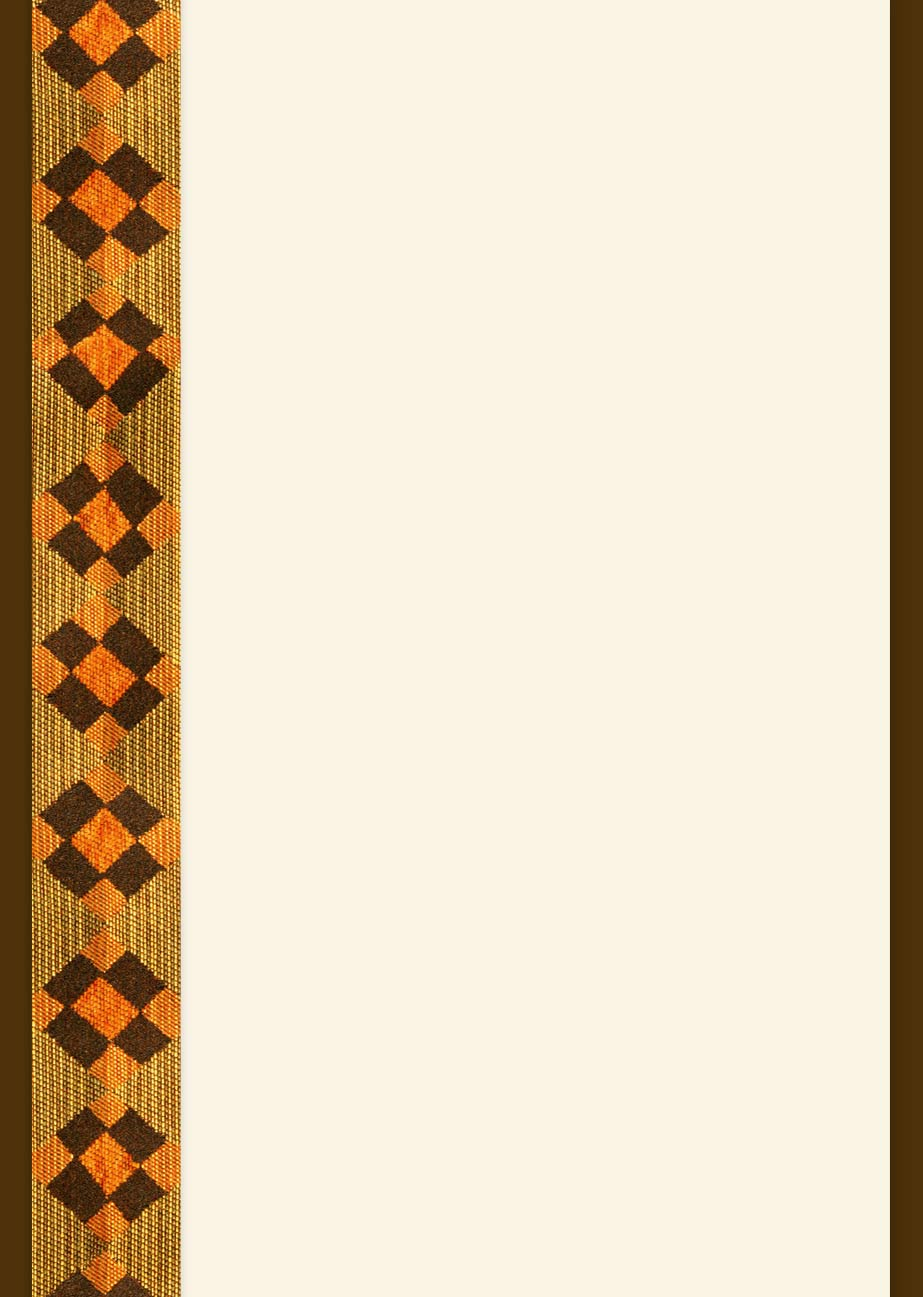
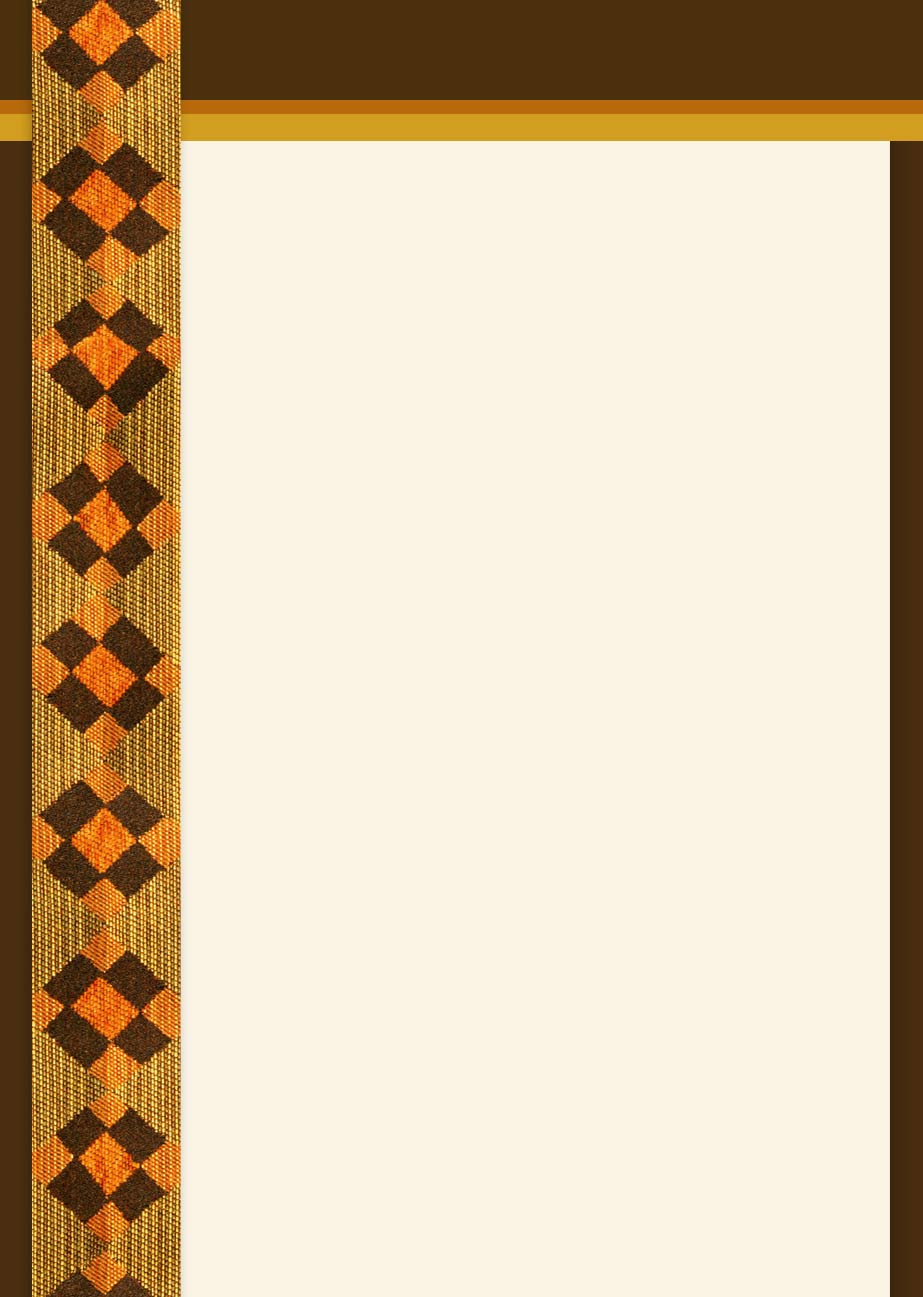
IE Fixes

Changed region(s): [[0.182, 0.0, 1.0, 0.1234], [0.0, 0.0617, 0.0303, 0.1234]]

diff --git a/sites/all/themes/scholar_base/scholar-base-ie.css b/sites/all/themes/scholar_base/scholar-base-ie.css
@@ -1,0 +1,82 @@
+/* $Id: ie.css,v 1.4 2008/09/20 20:57:27 johnalbin Exp $ */
+
+/*
+ * IE CSS
+ *
+ * CSS targeted specifically for Internet Explorer for Windows.
+ *
+ * Properties starting with an underscore _ are for IE 5 and 6 only.
+ * Properties starting with head:first-child+body are for IE7 only.
+ * Properties with a child selector (>) or sibling selector (+) are for IE7 only.
+ *
+ */
+
+/*
+ * Layout CSS
+ */
+
+
+/** floating divs **/
+.item-list ul.context-links li,
+.empty-content p,
+.empty-content .item-list ul.context-links li,
+.ahah-progress .throbber,
+.column {
+  display: inline;
+  }
+
+body.two-sidebars #sidebar-left {
+	left: 220px; /* Total width, including padding of right col */
+	}
+
+body.sidebar-left #sidebar-left {
+	left: 0;
+	}
+
+body.header-left-main-right #header-left {
+  left: -200px;
+  }
+
+body.header-left-main #header-left {
+	left: 200px;
+	}
+
+ul.menu li.leaf {
+  list-style-image: none;
+  }
+
+#vsite-widgets-search-form input#edit-search {
+  width: 90%;
+  }
+
+#vsite-widgets-search-form input#edit-submit {
+  font-size: 0px;
+  display:block;
+  line-height: 0px;
+  }
+
+ul.primary, ul.secondary {
+  _width: auto; /* Reset to auto width for IE6 */
+  }
+
+ul.primary li, ul.secondary li {
+  _width: 100px; /* Reset to auto width for IE6 */
+  }
+
+ul.primary li a, ul.primary li a:visted {
+  _background: #DDDDDD;
+  }
+
+ul.primary li.active a {
+  _background: #ffffff;
+  }
+
+
+#scholar-shield img {
+  behavior: expression((this.runtimeStyle.behavior="none")&&(this.pngSet?this.pngSet=true:(this.nodeName == "IMG" && this.src.toLowerCase().indexOf('.png')>-1?(this.runtimeStyle.backgroundImage = "none",
+  this.runtimeStyle.filter = "progid:DXImageTransform.Microsoft.AlphaImageLoader(src='" + this.src + "', sizingMethod='image')",
+  this.src = "/sites/all/themes/scholar_base/images/transparent.gif"):(this.origBg = this.origBg? this.origBg :this.currentStyle.backgroundImage.toString().replace('url("','').replace('")',''),
+  this.runtimeStyle.filter = "progid:DXImageTransform.Microsoft.AlphaImageLoader(src='" + this.origBg + "', sizingMethod='crop')",
+  this.runtimeStyle.backgroundImage = "none")),this.pngSet=true)
+  );
+  }

diff --git a/sites/all/themes/scholar_base/help-popup.css b/sites/all/themes/scholar_base/help-popup.css
@@ -1,0 +1,115 @@
+/* $Id: help-popup.css,v 1.4 2008/04/28 20:40:59 merlinofchaos Exp $ */
+
+body {
+  margin: 0;
+  padding: 0;
+  background: #edf5fa;
+  font: 12px/170% Verdana, sans-serif;
+  color: #494949;
+}
+
+input {
+  font: 12px/100% Verdana, sans-serif;
+  color: #494949;
+}
+
+textarea, select {
+  font: 12px/160% Verdana, sans-serif;
+  color: #494949;
+}
+
+h1, h2, h3, h4, h5, h6 {
+  margin: 0;
+  padding: 0;
+  font-weight: normal;
+  font-family: Helvetica, Arial, sans-serif;
+}
+
+h1 {
+  font-size: 170%;
+}
+
+h2 {
+  font-size: 160%;
+  line-height: 130%;
+}
+
+h3 {
+  font-size: 140%;
+}
+
+h4 {
+  font-size: 130%;
+}
+
+h5 {
+  font-size: 120%;
+}
+
+h6 {
+  font-size: 110%;
+}
+
+ul, quote, code, fieldset {
+  margin: .5em 0;
+}
+
+p {
+  margin: 0.6em 0 1.2em;
+  padding: 0;
+}
+
+a:link, a:visited {
+  color: #027AC6;
+  text-decoration: none;
+}
+
+a:hover {
+  color: #0062A0;
+  text-decoration: underline;
+}
+
+a:active, a.active {
+  color: #5895be;
+}
+
+hr {
+  margin: 0;
+  padding: 0;
+  border: none;
+  height: 1px;
+  background: #5294c1;
+}
+
+ol li, ul li {
+  margin: 0.4em 0 0.4em .5em; /* LTR */
+}
+
+
+#content {
+  margin: .5em 1em 1em 1em;
+}
+
+#content #page-title {
+  padding-bottom: .5em;
+}
+
+div#breadcrumb {
+  padding-left: 1em;
+  background-color: white;
+  border-bottom: 1px solid #ccc;
+  height: 2em;
+}
+
+div#breadcrumb .breadcrumb {
+  padding: 0;
+  margin: 0;
+}
+
+code, pre {
+  border: 1px solid #444;
+  background: #f1f1f1;
+  margin: 1em;
+  padding: .2em;
+  display: block;
+}

diff --git a/sites/all/themes/scholar_theme_07/scholar-theme-07.css b/sites/all/themes/scholar_theme_07/scholar-theme-07.css
@@ -1,8 +1,14 @@
 body {
-    background: url(images/fabric-strip.jpg) repeat-y top center #4C2F0D;
+    background: url(images/fabric-strip.jpg) repeat-y 50% 0 #4C2F0D;
     color:#282828;
     font:.9em/165% "Lucida Grande","Lucida Sans Unicode",Arial,Verdana,sans-serif;
     }
+
+
+/* Safari begins background image at an odd place */
+@media screen and (-webkit-min-device-pixel-ratio:0){
+  body {background-position: 50% 20px }
+  }
 
 body.cp-toolbar-full {
   background-position: 50% 42px;
@@ -19,11 +25,13 @@ body.front #wrapper {
 
 #container {
     width: 676px;
-    background: url(images/header.jpg) no-repeat 0 0 transparent;
+    background: url(images/header.jpg) no-repeat 50% 0 transparent;
     margin: 0 auto;
     padding-left: 193px;
     padding-right: 54px;
     }
+
+
 
 body.front #container {
     width: 100%;

diff --git a/sites/all/themes/scholar_theme_06/scholar-theme-06.css b/sites/all/themes/scholar_theme_06/scholar-theme-06.css
@@ -115,7 +115,7 @@ body.no-sidebars #content-wrapper {
 /* HEADER ELEMENTS */
 
 #header {
-    background: #44514F url(images/top.gif) no-repeat scroll center bottom;
+    background: #44514F url(images/top.gif) no-repeat 0 100%;
     color: #F7F3EA;
     padding-bottom: 40px;
     }
@@ -188,8 +188,8 @@ body.two-sidebars #content {
 
 #content-wrapper-bottom {
   clear: both;
-  background: #44514F url(images/bot.gif) no-repeat bottom center;
-  padding-bottom: 40px;
+  background: #44514F url(images/bot.gif) no-repeat 0 100%;
+  height: 40px;
   }
 
 /* Footer*/

diff --git a/sites/all/themes/scholar_theme_04/scholar-theme-04-ie.css b/sites/all/themes/scholar_theme_04/scholar-theme-04-ie.css
@@ -1,8 +1,11 @@
-body.two-sidebars #sidebar-left
-  left: 200px;
+body.two-sidebars #sidebar-left, body.header-left-main-right #header-left {
+  left: 190px;
+  }
+
+body.header-left-main #header-left {
+  left: -20px !important;
 	}
 
-
-body.header-left-main #header-left
-  left: 500px;
-	}
+#block-vsite_menus-0 ul.menu li a {
+  height: 1%;
+  }

diff --git a/sites/all/themes/scholar_theme_06/scholar-theme-06-ie.css b/sites/all/themes/scholar_theme_06/scholar-theme-06-ie.css
@@ -1,7 +1,11 @@
-#sidebar-left {
+body.two-sidebars #sidebar-left {
 	left: 210px;
 	}
 
-#header-left {
-  left: 125px;
+body.header-left-main-right #header-left {
+  left: -210px;
+  }
+
+body.header-left-main #header-left {
+  left: 0px;
   }

diff --git a/sites/all/themes/cp_theme/cp-theme.css b/sites/all/themes/cp_theme/cp-theme.css
@@ -160,6 +160,7 @@ body.admin-menu #main-content {
 
 #cp-sidemenu li a:hover {
   background: #fff;
+  text-decoration: none;
   }
 
 #cp-sidemenu li.active a,

diff --git a/sites/all/themes/scholar_theme_07/scholar-theme-07-ie.css b/sites/all/themes/scholar_theme_07/scholar-theme-07-ie.css
@@ -5,3 +5,8 @@
 #header-left {
   left: -115px;
   }
+
+#container {
+  background-position: 1px 0;
+  _background-position: 11px 0;
+  }
